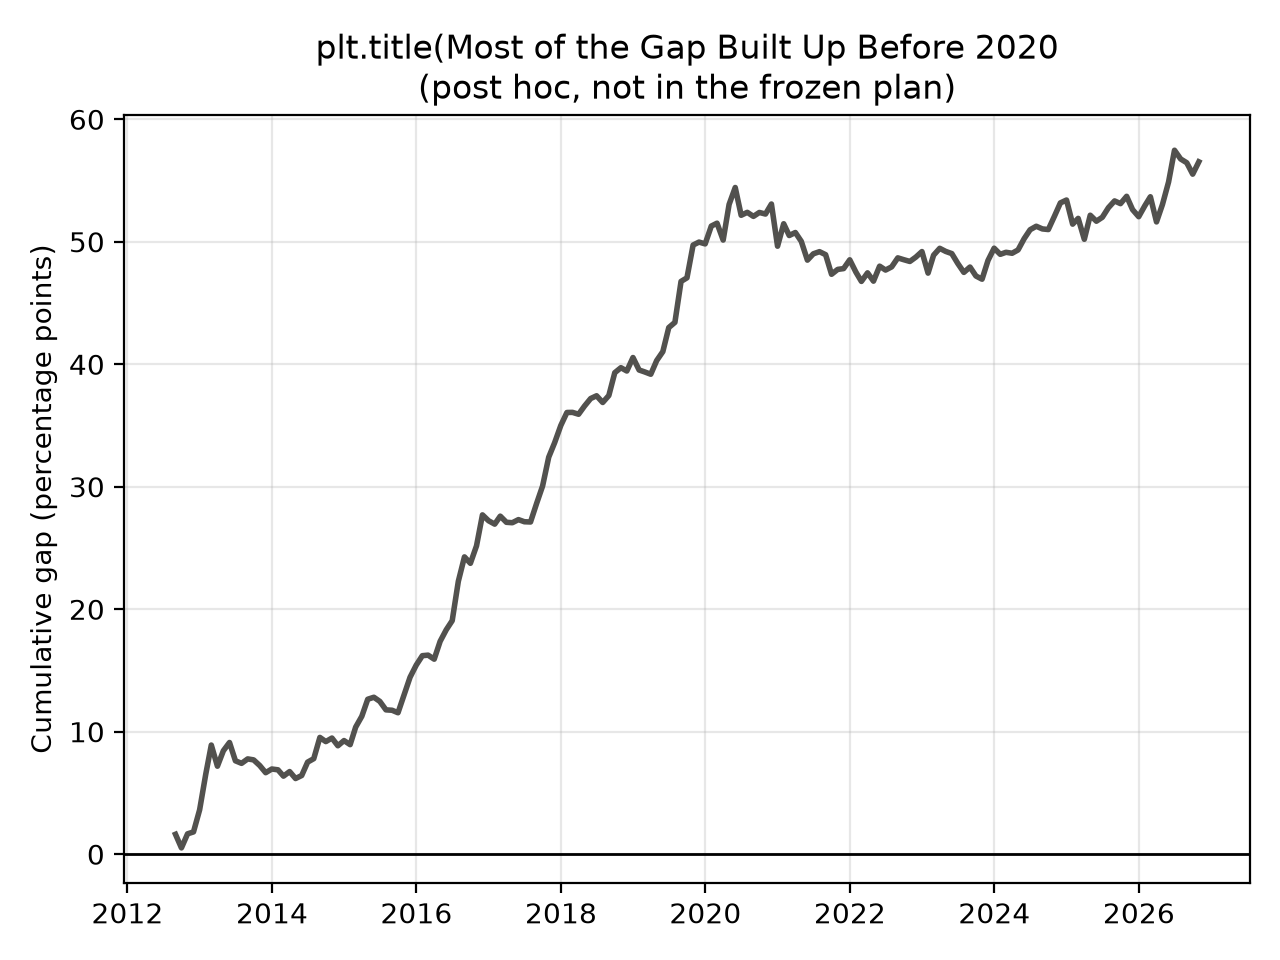
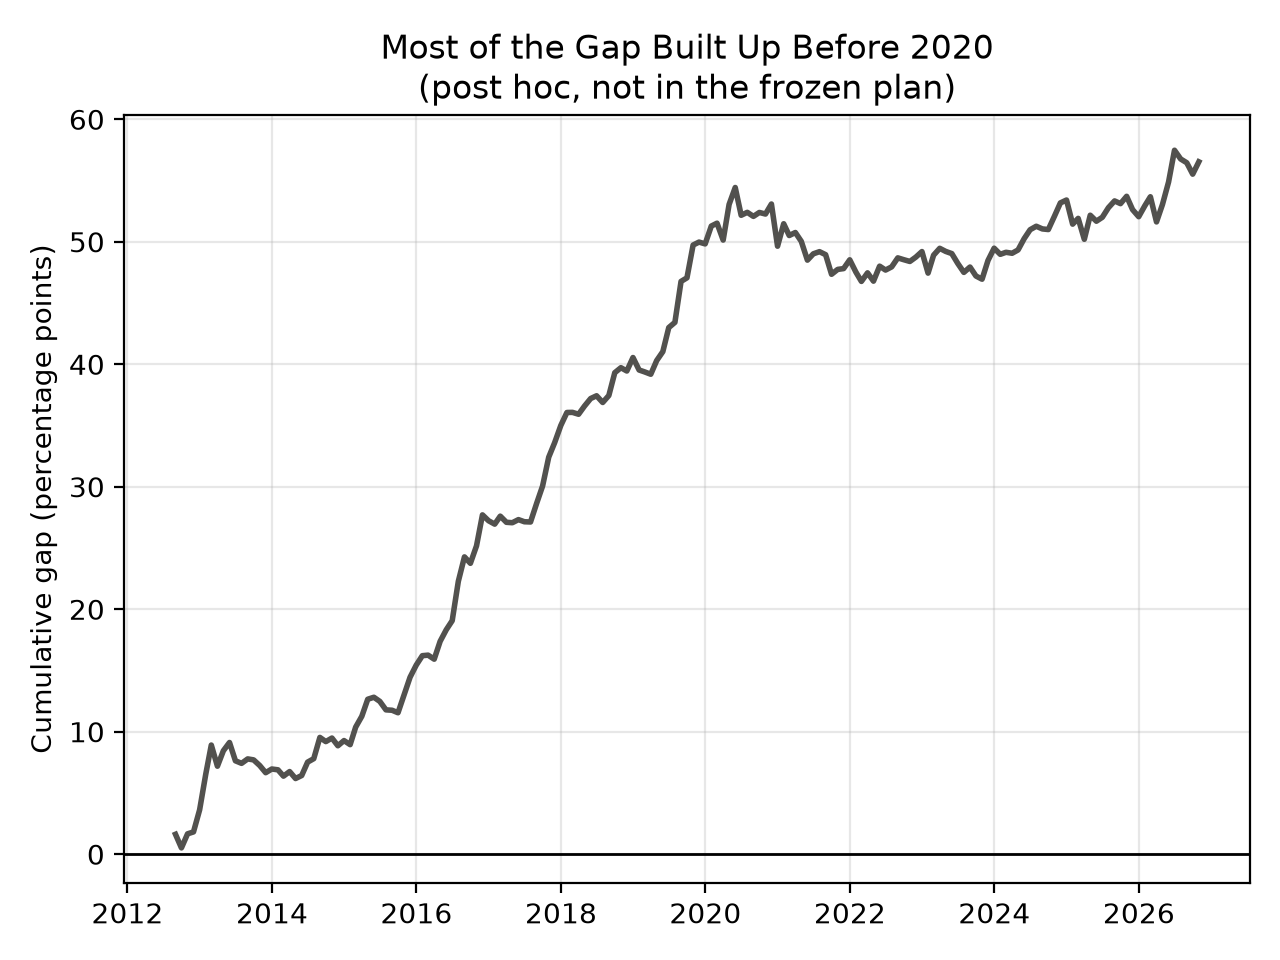
Add RESULTS.md; update README

Changed region(s): [[0.25, 0.0312, 0.8438, 0.0625]]

diff --git a/charts.py b/charts.py
@@ -100,4 +100,3 @@ plt.title("Most of the Gap Built Up Before 2020\n(post hoc, not in the frozen pl
 plt.ylabel("Cumulative gap (percentage points)")
 plt.tight_layout()
 plt.savefig("charts/chart4.png", dpi=200)
-

diff --git a/notes/RESULTS.md b/notes/RESULTS.md
@@ -1,0 +1,60 @@
+## Headline 
+- The 2026 SET50 hindsight list outperformed the July 2012 SET50 list by 3.97 percentage points per year in annualized arithmetic returns (t = 3.98, 95% CI [2.01%, 5.92%]), under the pre-committed dropped-stock rule.
+- In a backtest, the 2026 list returned about 4 percentage points more per year than the 2012 list, but an investor in 2012 could not have known the 2026 list.
+
+## Scorecard
+
+| | 2012 list | 2026 list | TDEX |
+|---|---|---|---|
+| CAGR | 8.07% | 12.24% | 5.70% |
+| Sharpe | 0.56 | 0.76 | 0.44 |
+| Max drawdown | −40.18% | −34.84% | −30.20% |
+
+![Chart 1](../charts/chart1.png)
+
+- The CAGR gap is 4.17 points, and it’s descriptive only. 
+- TDEX is context only: it’s one fund with no trading cost taken out, and its result isn’t a fair skill comparison with the lists.
+
+## What it means
+
+- Statistical strength: The t-statistic of 3.98 clears both reference thresholds (2 and 3).
+- Size of the gap: The 95% confidence interval is 2.01%–5.92%. The gap is likely positive, but its exact size remains uncertain.
+- Costs: Costs did not explain the difference. The gap changed from 4.01% before costs to 4.00% after costs in the earlier version, before the BANPU and TRUE fixes. The final corrected result is 3.97%.
+- Answer: under my rules, testing today’s list on the past flattered the result by about 4 points a year compared with the list available in 2012.
+
+## Sensitivity checks
+- Stocks trading in July 2012: The gap falls to 3.00% per year (t = 4.40, 95% CI [1.66%, 4.34%]). This version keeps SCB (D-14).
+- Quarterly rebalancing: The gap is 3.75% per year (t = 3.81, 95% CI [1.82%, 5.68%]). Quarters end in January, April, July and October (D-15).
+
+- How to read these results:
+    - Both tests still show a positive return gap.
+    - They support the headline result but do not replace it.
+    - Both use the same underlying data, so they are not independent proofs.
+
+![Chart 3](../charts/chart3.png)
+
+## Power
+
+- Planned: Volatility of the monthly gap, annualised, was expected to be about 8.4%, with a detectable gap of approximately 6.2%.
+- Actual: Volatility of the monthly gap, annualised, was 3.77%, with a detectable gap of approximately 2.79%.
+- What it means: The original plan was conservative. The actual data were less volatile than expected, allowing the test to detect smaller return differences than originally planned.
+
+## Limitations and disclosures
+- Dropped stocks: Eight stocks were dropped. The direction of any resulting bias is unknown (D-9).
+- Missing history: TIDLOR's early years and SCB's pre-2022 history are missing. Real BANPU data ends on 14 Mar 2025 (D-11).
+- Timing: Returns start in August 2012, not 2 July. Month-end closes represent the first trading day. Chart 1 starts at approximately 103, not 100.
+- Sharpe ratio: No risk-free rate was used.
+- List sizes: The 2012 list contains 41–42 stocks, while the 2026 list contains 35–49.
+- THAI: Original data was kept unchanged, but the effect of restructuring on old shareholders is not fully confirmed.
+- BEM: Yahoo's pre-2016 prices probably belong to a predecessor, but this is unconfirmed.
+- Comparisons: Thai market results and US Quantz Dow results are not directly comparable.
+- Full details: All data checks and their limitations are documented in DATA_CHECKS.md.
+- TDEX: Didn’t check whether Yahoo’s adjusted prices include every fund distribution. If some are missing, TDEX’s 5.70% is too low.
+
+## Post hoc: (not part of the frozen plan)
+- This split wasn't in PLAN.md so it is exploratory.
+- By the end of 2019: The cumulative return gap had reached +49.8 percentage points.
+- From 2020 to 2026: The gap added another +6.7 percentage points.
+- Limit: This analysis shows when the gap appeared, but it does not explain why it happened or prove that the effect has ended.
+
+![Chart 4](../charts/chart4.png)

diff --git a/README.md b/README.md
@@ -12,11 +12,13 @@ Claude explains and reviews.
 |---|---|
 | `data/` | The two SET50 lists, the audit table, and `cache/` (downloaded prices, not committed) |
 | `sources/` | `SOURCES.md` (every outside fact and where it came from) and `wayback/` (saved SET pages) |
-| `notes/` | `DECISIONS.md` (every choice and why), `RESEARCH_LOG.md` (every research step), `SCHEDULE.md`, `quantz-lessons.md` |
+|| `notes/` | `RESULTS.md` (the final results), `DATA_CHECKS.md` (every data check), `DECISIONS.md` (every choice and why), `RESEARCH_LOG.md` (every research step), `SCHEDULE.md`, `quantz-lessons.md` |
 | `PLAN.md` | The frozen plan, committed before any backtest code |
 | `backtest.py` | The backtest: prints the headline and scorecard (written by Ikkyu) |
 | `checks.py` | The data checks (written by Ikkyu) |
 | `audit.py` | Downloads both lists and records missing data (written by Ikkyu from a description, 26 Oct; replaced Claude's first version) |
+| `charts.py` | Makes the four charts (written by Ikkyu) |
+| `charts/` | The four saved charts |
 
 ## Plan
 
@@ -30,10 +32,10 @@ Claude explains and reviews.
 | 3.2 | ✅ | Monthly returns and equal-weight portfolios (171 monthly returns) |
 | 3.3 | ✅ | Trading costs (0.15%) at each rebalance |
 | 3.4 | ✅ | Scorecard: CAGR, Sharpe, max drawdown, t-statistic; headline printed |
-| 4 | 🟡 | Checks (`notes/DATA_CHECKS.md`): BANPU, TRUE, INTUCH, renames, chains, rerun done; dividends, stock count, re-download, 2012 news left |
-| 4.5 | ⬜ | Sensitivity: 2026 list limited to July 2012 stocks; quarterly rebalancing |
-| 5 | ⬜ | `charts.py` |
-| 5.5 | ⬜ | `notes/RESULTS.md` |
+| 4 | ✅ | Checks (`notes/DATA_CHECKS.md`): 12 checks, including what wasn't checked |
+| 4.5 | ✅ | Sensitivity: 2026 list limited to July 2012 stocks; quarterly rebalancing |
+| 5 | ✅ | `charts.py` |
+| 5.5 | ✅ | `notes/RESULTS.md` |
 | 6–7 | ⬜ | Portfolio pages (SET50 is the flagship, decided 29 Oct) |
 
 ## External Dataset (Required)
@@ -49,6 +51,10 @@ Claude explains and reviews.
 ## Run
 
 ```bash
+python3 -m venv .venv
+```
+
+```bash
 ./.venv/bin/pip install -r requirements.txt
 ```
 
@@ -60,3 +66,6 @@ Claude explains and reviews.
 ./.venv/bin/python backtest.py 2>/dev/null
 ```
 
+```bash
+./.venv/bin/python charts.py 2>/dev/null
+```

diff --git a/notes/RESEARCH_LOG.md b/notes/RESEARCH_LOG.md
@@ -275,3 +275,8 @@ Yahoo's `Dividends` column vs SET announcements. All three match on amount and X
 - **Chart 3:** headline and both sensitivities with 95% CIs. No bar touches zero. All three share the same data, so they aren't separate proofs.
 - **Chart 4 (post hoc):** cumulative gap, +49.8 points by end 2019 and +56.5 at the end. Shows when the gap appeared, not why, and not that it has ended.
 - **Colours:** blue and orange follow each list across charts; TDEX is dashed green; differences are grey. The three colours passed a colour-blind check.
+
+### Step 27: Clean-copy run (Claude, 1 Nov)
+- Cloned the last commit into a temporary folder, added the two gitignored data folders, and ran `audit.py`, `backtest.py` and `charts.py`.
+- All ran, and the output matched: 3.97% (t = 3.98), 3.00% (t = 4.40), 3.75% (t = 3.81). All four charts were produced.
+- **Limit:** this used the saved prices, not a fresh download (see the re-download test, Step 19). It also used the existing `.venv`, not a fresh install.
